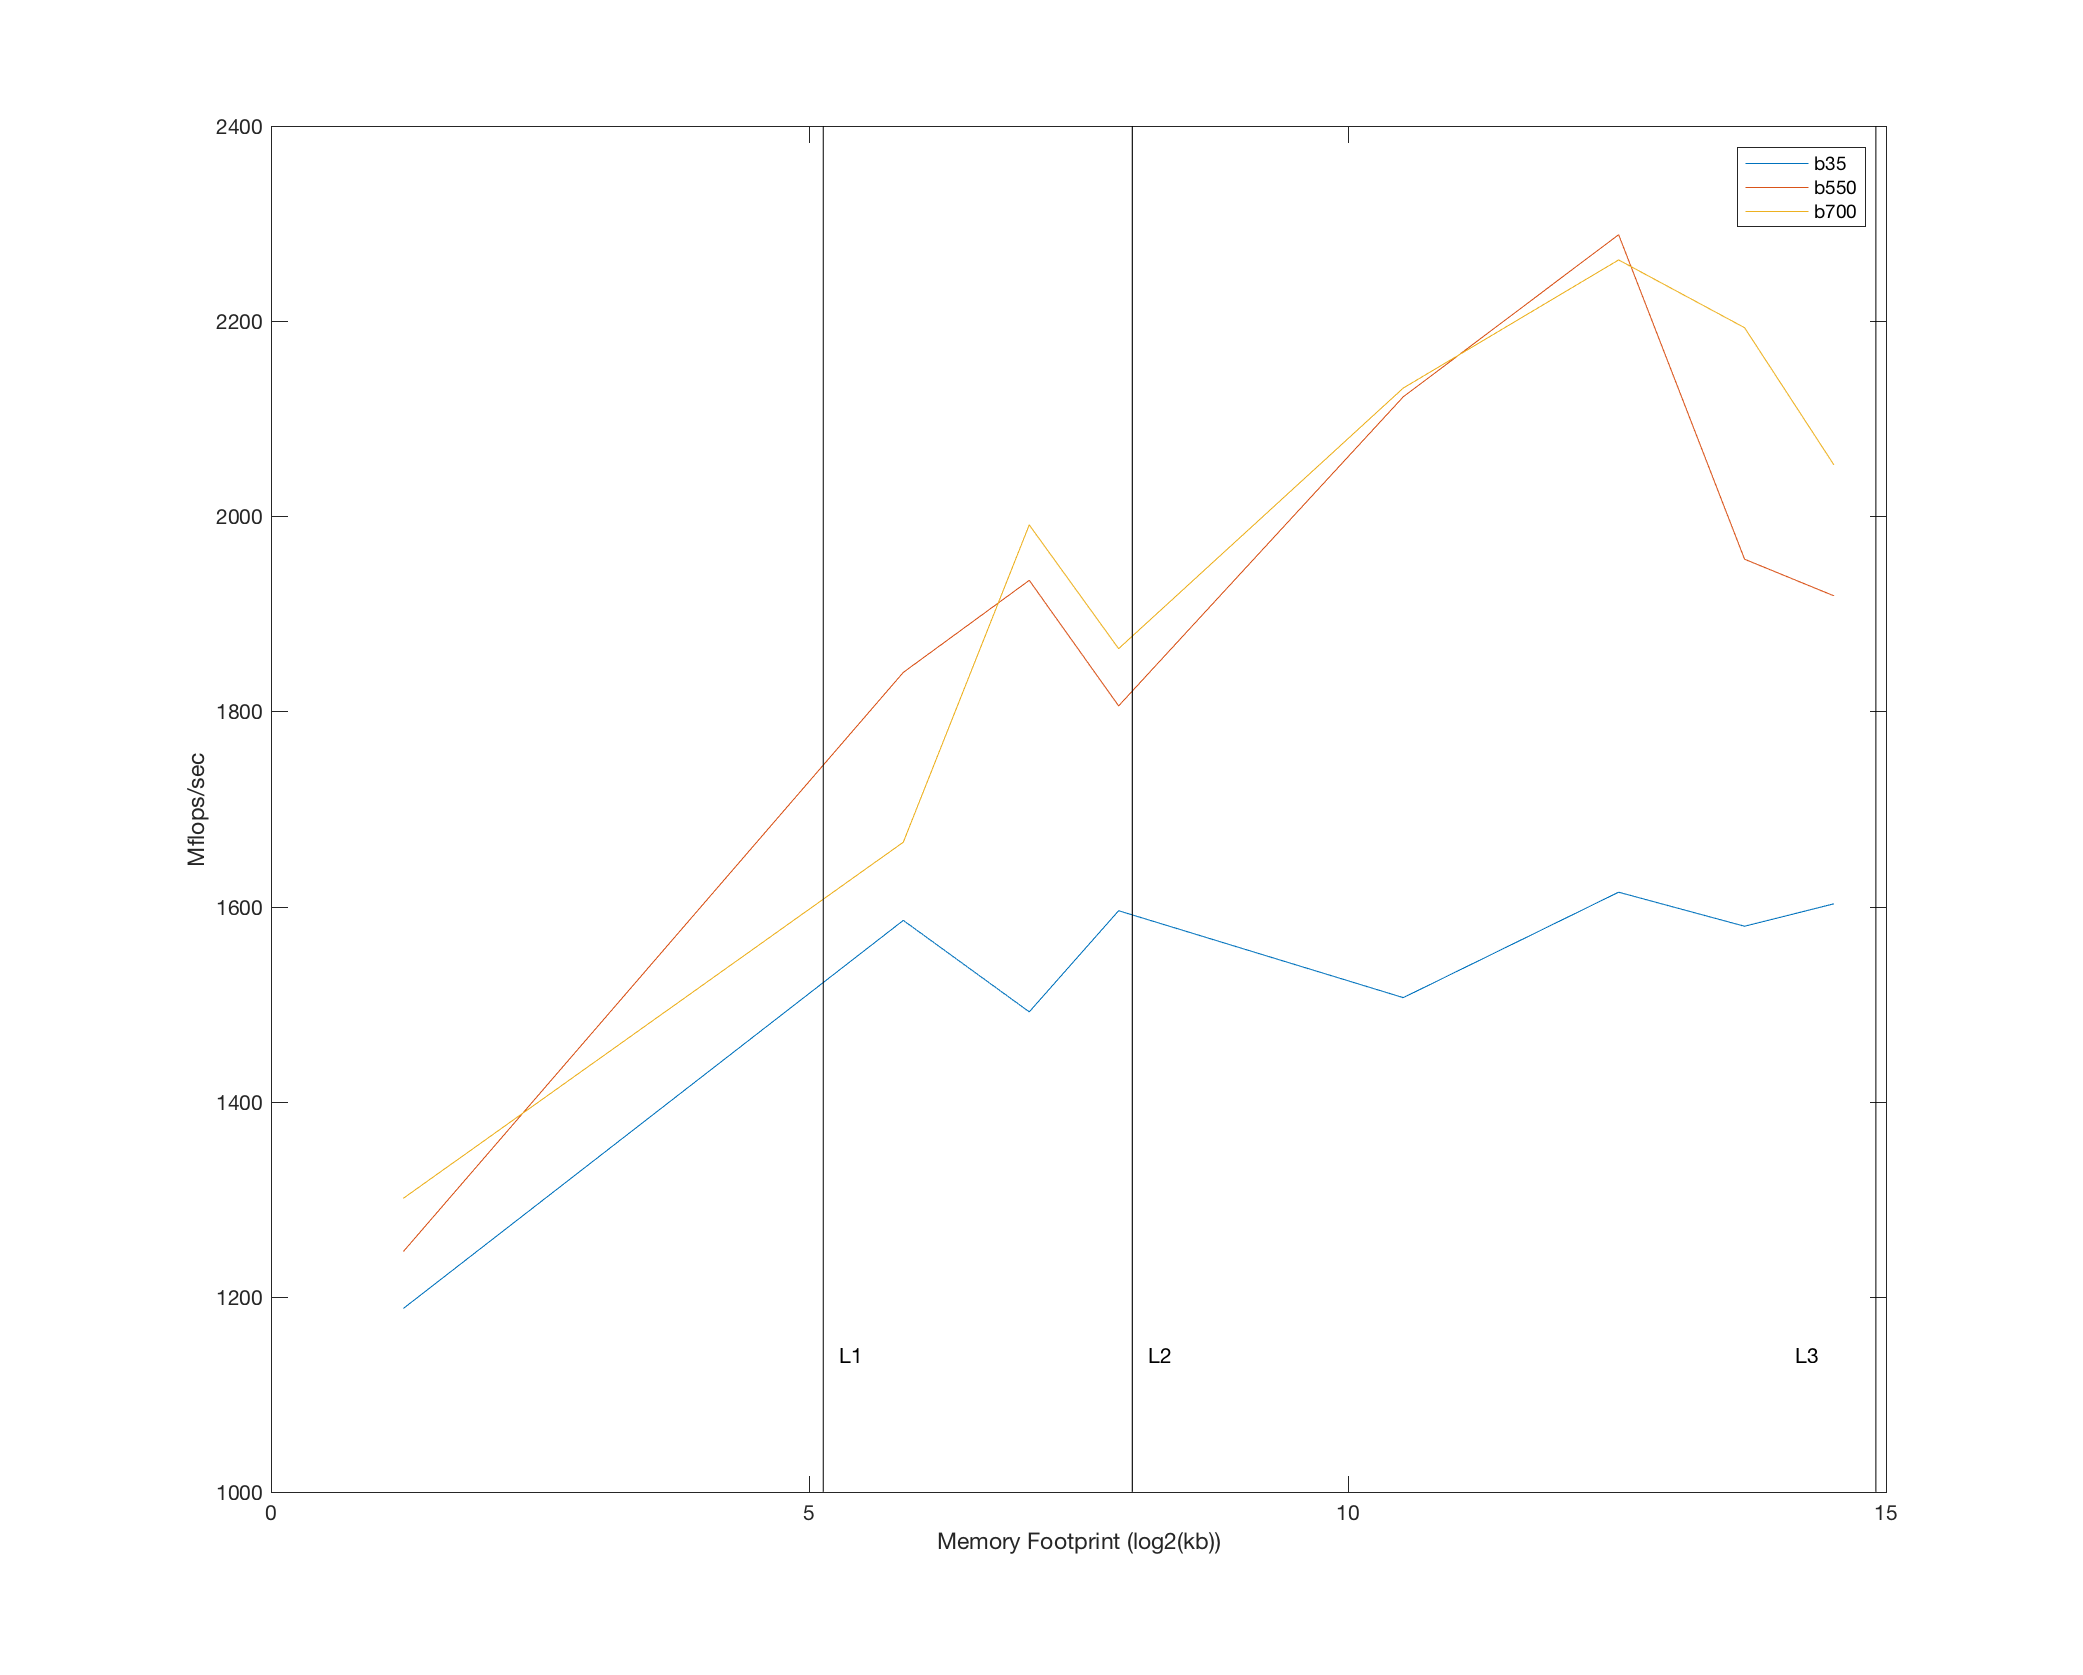
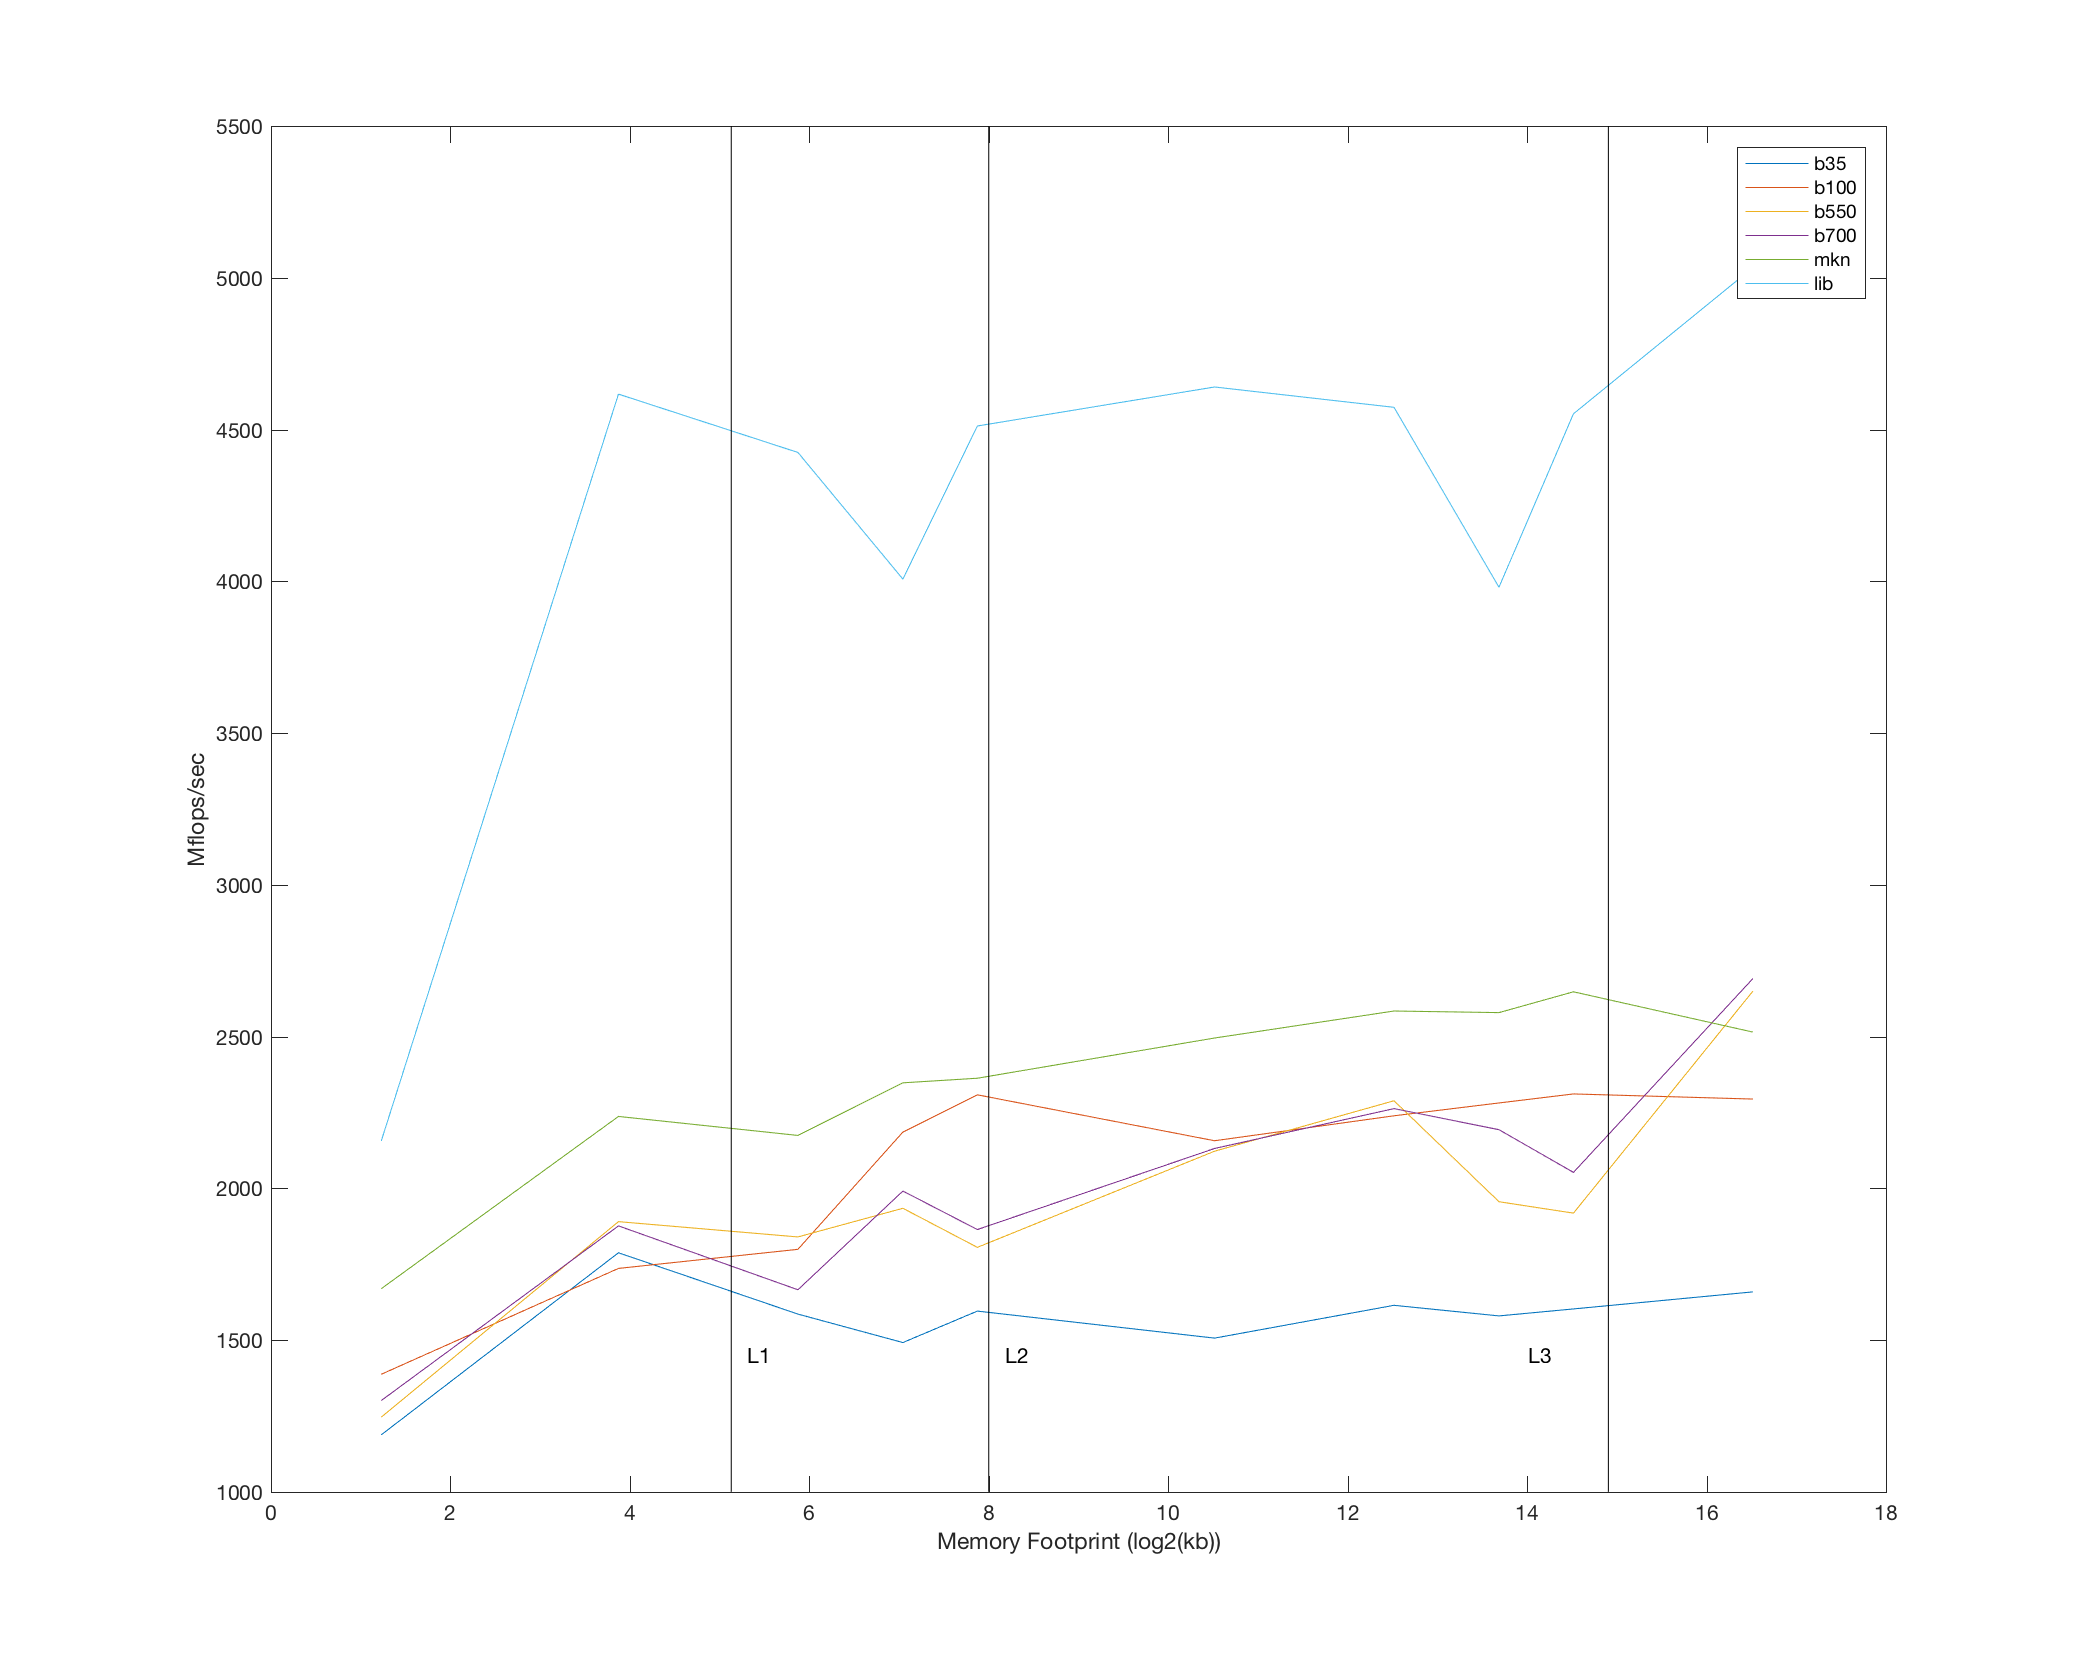
last update of plots and matlab code

diff --git a/Matlab/permutations.m b/Matlab/permutations.m
@@ -60,13 +60,13 @@ saveas(gcf, 'blockSizePlot.png');
 
 %% Plot 3: BLK : 
 
-memoryFP2 = log2([2.344 58.594 131.836  234.375 1464.844 5859.375 13183.594 23437.500 ]);
+memoryFP2 = log2([2.344 14.648 58.594 131.836 234.375 1464.844 5859.375 13183.594 23437.500 93750.000]);
 
 %b10  = []; 
-b35  = [1187.995 1585.796 1492.042 1595.711 1506.629 1614.711 1579.804 1602.808];
-%b100 = [];
-b550 = [1246.331 1840.000 1934.367 1805.673 2122.493 2288.677 1956.010 1918.450];
-b700 = [1300.929 1665.948 1991.171 1864.329 2131.478 2262.787 2193.315 2052.646]; 
+b35  = [1187.995 1787.822 1585.796 1492.042 1595.711 1506.629 1614.711 1579.804 1602.808 1658.971];
+b100 = [1387.556 1736.331 1799.174 2185.479 2308.248 2156.930 2239.147 2281.437 2311.155 2294.255];
+b550 = [1246.331 1890.386 1840.000 1934.367 1805.673 2122.493 2288.677 1956.010 1918.450 2649.848];
+b700 = [1300.929 1876.420 1665.948 1991.171 1864.329 2131.478 2262.787 2193.315 2052.646 2691.293]; 
 
 %Plotting
 figure('Position', [100, 0, 1000,1000]);
@@ -74,8 +74,8 @@ set(gca,'fontsize',14);
 set(gcf, 'Color', 'w');
   hold off;
   
-plot(memoryFP2, b35, memoryFP2, b550, memoryFP2, b700);
-legend('b35', 'b550', 'b700', 'Location', 'NorthEast')
+plot(memoryFP2, b35, memoryFP2, b100, memoryFP2, b550, memoryFP2, b700, memoryFP, mknMFLOPS, memoryFP, libMFLOPS);
+legend('b35', 'b100','b550', 'b700', 'mkn', 'lib', 'Location', 'NorthEast')
 
 vline(log2(  35), 'k', 'L1')
 vline(log2( 256), 'k', 'L2')
